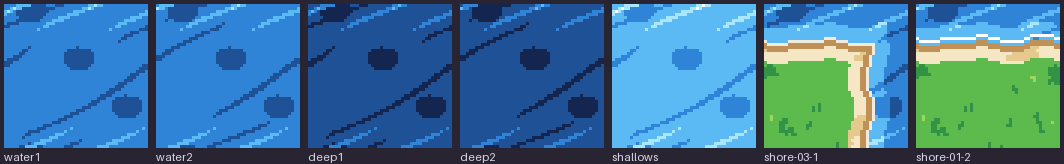
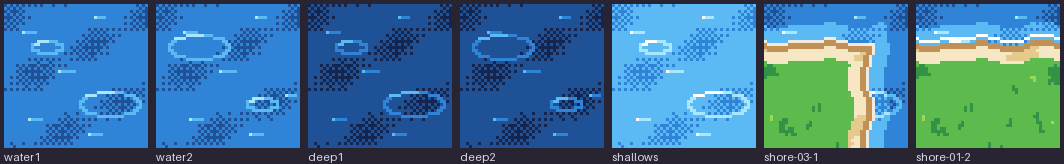
Companion 48 px round 2: the review place write-up with the signed art director's column, the handover to the new state, water and meadow figures

diff --git a/art/companion-48/review-place/README.md b/art/companion-48/review-place/README.md
@@ -1,68 +1,132 @@
 # Companion 48 px redraw: the review place
 
-The [Companion 48 px redraw](../../../design/proposals/companion-48px-redraw.md) (§9 Decided) on one place, the meadow and pond edge in a storm, with every piece it needs at 1× on the 48 ramps of the [signed palette](../palette/README.md). Everything here is **a candidate for the owner's review**: generated sources down-rendered by script, an Aseprite pass for the meadow, scripted chrome and water, Retro Diffusion candidates beside the scripted pieces, and Pip derived into the Loika token. Nothing is accepted; nothing touches `prototypes/exploration/index.html`.
+The [Companion 48 px redraw](../../../design/proposals/companion-48px-redraw.md) (§9 Decided) on one place, the meadow and pond edge in a storm, with every piece it needs at 1× on the 48 ramps of the [signed palette](../palette/README.md). Everything here is **a candidate for the owner's review**: generated sources down-rendered by script, an Aseprite pass for the meadow, scripted chrome and water, Retro Diffusion sprites beside the scripted ones where one was picked, and Pip derived into the Loika token. Nothing is accepted; nothing touches `prototypes/exploration/index.html`.
 
-**State: round 2 in progress, handed over.** Round 1 went to the owner; the owner's five notes (too dark and the rain too heavy; the grid not seamless; pawn, trees and stones dark; river borders too wavy; water flat) are being worked in round 2. What is fixed, what is half done and how every group is made is in [`../HANDOVER.md`](../HANDOVER.md). The pieces, sheets and stills below are round 2's current state; round 1's are frozen in [`round1/`](round1/). The sign-off checklist below is round 1's and is re-filled when round 2 is delivered.
+**State: round 2 ready for the owner.** It answers the owner's five notes on round 1 (below). Round 1's pieces, still and contact sheets are frozen in [`round1/`](round1/). How every group is made and how to rebuild: [`../HANDOVER.md`](../HANDOVER.md) and `sh tools/build-all.sh`.
 
 ![Contact sheet at 3×](contact-sheet-3x.png)
 
-*Every piece at 3× ([1× here](contact-sheet-1x.png)); a piece that changed in round 2 shows its round 1 version (r1) beside it (r2); the Retro Diffusion candidates are a group of their own, not yet picked. Candidates, not accepted.*
+*Every piece at 3× ([1× here](contact-sheet-1x.png)); a piece that changed since round 1 shows round 1 (r1) beside round 2 (r2). The Retro Diffusion group puts the scripted piece (a) beside the Retro Diffusion one (b). Candidates, not accepted.*
+
+## The owner's five notes, and what answers each
+
+1. **"Dark, and the rain too heavy."** The round 1 still darkened everything one ramp step. Round 2 uses no DARK step: the ground, water and plain stones go through a *storm table* (each colour mixed 30 % toward river, nearest palette colour; sand, clay, paper, bone and white kept), and the canopies and the lit stones keep their own colours (decision below). The pawn and mibis never pass through a table. The rain tile has 10 streaks per 96 px (round 1: 26). Limit: the storm now reads mild; the stronger teal cast is kept as [an alternative still](still/companion-place-storm-48-cool.png) and fails the four-grey check (below).
+2. **"The grid is not seamless."** A real Aseprite pass (1.3.18, headless on the VM, `tools/aseprite-meadow.lua`): all eight meadow tiles (grass ×4, tall ×2, flowers ×2) take one shared outer band, the master's interior offset by half a tile, blended inward and snapped to the tile's colours; grass3 and grass4 took an 18 px band (8 px left a faint horizontal structure in their own 3×3). Any meadow tile joins any other.
+3. **"Pawn, trees and stones good but dark."** Painted values lifted 18 % before quantising, nothing darkens them in the still beyond the storm cast on plain stones; Retro Diffusion sprites run through the same lift; picks below.
+4. **"River borders too wavy."** The shoreline amplitude is 0.9 + 0.5 px (was 2.2 + 1.3); a shallows band lies between bank and water; the foam line stays.
+5. **"Water flat."** Water redrawn (below), two frames.
+
+## The ground, seamless
+
+![Every meadow tile laid 3×3 at 1×](work/preview-meadow-3x3-1x.png)
+
+*Each meadow tile laid 3×3 at 1×, after the Aseprite pass (grass3, grass4 at band 18). Candidate.*
+
+![The meadow tiles laid in a seeded random 6×6 at 3×](work/meadow-mixed-3x.png)
+
+*All eight meadow tiles laid in a seeded random 6×6 ([1×](work/meadow-mixed-1x.png), `tools/meadow-check.py`): the mean colour step across a tile join is 4.8 against 13.4 inside the tiles, and no join shows at 1× or 3×. Candidate. Limit: grass2's dark bracket motif repeats visibly when it is laid several times near each other; it is the one tile to thin out at placement.*
+
+The shore set (16 masks × 2 frames) is cut again from these tiles, the shallows and the new water ([contact sheet](contact-sheet-3x.png), group 2).
+
+## Water
+
+![Water ×2, deep ×2, shallows, two shore tiles at 3×](work/preview-water-3x.png)
+
+*Round 2 water, 3×: water1, water2, deep1, deep2, shallows, two shore tiles. Scripted candidate (`tools/build-water.py`).*
+
+Judged against the guide (storms go blue; water with depth, highlights and a soft ripple over two frames): it reads as water with depth at 1× and 3×, in the still and on its own. How it is made: a periodic depth field read through a 4×4 Bayer matrix between two neighbouring ramp steps, so the colour moves softly from lighter to deeper over the tile; short crests in the lighter step with an ice glint, drifting 3 px between the frames; two flat elliptical ripple rings that widen between the frames; the deep tile one step down the ramp; the deep water drawn with a wavy edge over the water in the still, not as a tile boundary. It tiles at 48 px. The two Retro Diffusion water tiles (`sources/rd/C48-R-r2-water1`, `-water2`; on-palette after the snap but stylised: teal ring ripples, dark blue with diamonds) are kept as labelled candidates, not used. Limit: the Bayer depth shows as a fine pattern at 3×; at 1× it reads as soft depth.
 
 ## The still
 
 ![The review place in a storm, 450×600 at 1×](still/companion-place-storm-48.png)
 
-*450×600 at 1×: HUD 32, view 532, bottom line 36. Round 2: the ground and props pass through the storm table (a blue cast, no DARK step; [the no-table alternative](still/companion-place-storm-48-plain.png) is kept beside it); the pawn and the mibis never. Rain from the weather sheet over the view; the message box, the name tag, the key caps and the condition bolts from the ui sheet; the page's Mibi 7×9 font at 2×. 0 off-palette pixels by `tools/check.py`; its four-grey rendering is in [`still/four-gray/`](still/four-gray/). "Loika" is a text layer, never baked.*
+*450×600 at 1×: HUD 32, view 532, bottom line 36. The storm table on ground, water and plain stones; canopies and lit stones exempt; pawn and mibis untouched. Rain from the weather sheet; the message box, name tag, key caps and condition bolts from the ui sheet; the page's Mibi 7×9 font at 2×. 0 off-palette pixels. "Loika" is a text layer, never baked. Candidate.*
 
 ![Beside the accepted concept and the round 1 still](still/beside-concept-and-round1.png)
 
-*Left, the accepted Companion concept; middle, the round 1 still (DARK table); right, the round 2 still (storm table). The kit's own storm still is compared in [`still/beside-concept-and-kit.png`](still/beside-concept-and-kit.png) (round 1).*
+*Left, the accepted Companion concept; middle, the round 1 still (DARK table); right, the round 2 still. Candidate.*
+
+![Four-grey rendering of the still](still/four-gray/companion-place-storm-48-4gray.png)
+
+*The round 2 still in four greys (also [sheets](sheets/four-gray/)). The pawn (orange, luma 127) sits one grey below the grass body (luma 159) and separates by value as well as by outline; in round 1 both landed in one grey. The margin is one grey step, not wide.*
+
+Alternatives kept beside: [no table](still/companion-place-storm-48-plain.png) and [the stronger cool cast](still/companion-place-storm-48-cool.png) (grass body to teal, luma 129, the pawn's grey again: it fails the value check and is not the pick).
+
+### The storm light: the art director's decision
+
+- **Greens keep their ramp under the storm.** The tree's canopy went teal under the table and lost its identity; trees and bushes (tree, bush, bush-fruit, bush-shaken) are exempt and read as the lit, living thing against a cooler ground. The lit stones (warm, charged) are exempt too: their glow is the point and the table turned it grey.
+- **The ground takes a blue cast only in its shade strokes**, not its body: the grass body keeps its value because the four-grey check needs the ground lighter than the pawn, and the owner asked for lighter. This is a trade: a stronger blue ground costs the pawn's value separation. If the owner wants a darker, bluer storm, the pawn needs a lighter body or a ground shadow, which is a pawn redraw.
+- Water, plain stones, the hut and the shore go through the table.
+
+## The sprites: Retro Diffusion beside the scripted piece, and the art director's pick
+
+Each painted piece was cropped, its key-colour halo and purple ground shadow removed (alpha eroded one pixel, purple-cast pixels sent to white, so the input carries no key colour), put on white and sent as `input_image` (strength 0.5) to `rd_pro__topdown` with the 48-colour `input_palette` and `remove_bg`; the result is lifted 18 %, quantised onto the piece's ramps, despeckled and outlined by the ramp rule (`tools/rd-snap.py`). HiBit on the 48 ramps, ramp outline never black, no alpha, no anti-aliasing, 0 off-palette after the snap.
+
+| Piece | Pick | Reason |
+| --- | --- | --- |
+| tree | scripted | Retro Diffusion draws a crisper canopy but loses the trunk to a stub and the ground shadow, so the tree stops reading as a tree. |
+| bush | scripted | Retro Diffusion's is darker with a grey patch artefact at its top right; the scripted bush is lighter and rounder. |
+| bush-fruit | scripted | Retro Diffusion's berries mix with purple specks; the scripted red berries read at once. |
+| stone | **Retro Diffusion** | Facets and a lit top give the stone volume; the scripted stone is a smooth slab with a skirt. Smaller than the scripted one (26×31). |
+| stone-warm1 | **Retro Diffusion** | The amber glow sits in the stone's core as a warm stone should; the scripted one is a grey slab with a warm rim, round 1's failure. |
+| stone-charged1 | scripted | Retro Diffusion keeps the stone and loses the charge to faint white cracks; the scripted crackle still says charged. |
+| outpost-lit | scripted | Retro Diffusion's hut is dark brown with a teal halo and a tiny lamp; the owner asked for lighter. |
+| pod | scripted | Retro Diffusion turned the dark pod into a cream egg: a different object. |
+| pawn (down, up, left, right) | scripted | Retro Diffusion drew a different character (a hooded person, a lantern, one with a stone tile behind it) and only the walk2 frame per facing; no cycle could be built, and the scripted pawn is the accepted individual. |
+
+The picks are in [`work/props/`](work/props/) and the sheets; the scripted versions of the two replaced pieces are in [`work/props-scripted/`](work/props-scripted/); every Retro Diffusion result, snapped, in [`work/props-rd/`](work/props-rd/) and [`work/pawn-rd/`](work/pawn-rd/); raw results, inputs and sidecars in [`sources/rd-sprites/`](sources/rd-sprites/). Limit: the stone family is now mixed (two Retro Diffusion pieces, four scripted: stone-plain2, stone-warm2, stone-charged2 and the stepping stones were not re-run); in the still they sit apart, and a third batch on the same recipe would unify them.
 
 ## What is generated, scripted, derived
 
-| Group | How it was made | Stage |
-| --- | --- | --- |
-| Ground (grass ×4, tall ×2, flowers ×2, shade, sand, water ×2, deep, reeds, wet shore, stepping stone) | One Pro-painted 4×4 grid ([`sources/C48-T-r1-a1`](sources/C48-T-r1-a1.json)) cut, wrap-blended, level-matched across the meadow set, BOX-resized to 48 and quantised onto each tile's ramps (`tools/build-ground.py`) | generated source, scripted down-render |
-| Shore corner set (16 masks × 2 frames) | Cut by script from the grass, sand and water tiles along a wavy shoreline that repeats every 48 px; a foam line of bone (frame 1) or white (frame 2) (`tools/build-shore.py`) | scripted |
-| Props: tree, bush ×3, stone, warm stone ×2, charged stone ×2, outpost ×3, pod, reeds, dew cup | One Pro-painted sheet on magenta ([`sources/C48-P-r1-a1`](sources/C48-P-r1-a1.json)) keyed, resized to each piece's size, quantised onto its ramps, outlined by the rule (`tools/build-props.py`) | generated source, scripted down-render |
-| Warned strike ×2 | A dashed yellow ring with a rust rim, two dash phases (`tools/build-ui.py`) | scripted |
-| Pawn: 4 facings × walk 3, creep 3, react | One Pro-painted 8×4 sheet ([`sources/C48-W-r1-a1`](sources/C48-W-r1-a1.json)) down-rendered to 40 px tall in 48 px cells, foot at y 46; the up facing derived from down (`tools/build-pawn.py`) | generated source, scripted down-render |
-| Tokens: Pip as Loika (idle 2, walk 3); placeholders S02–S04 | Derived from the accepted Pip painting (`art/miniature-lives/assets/hibit-plain-280x300.png`): 40 px tall, quantised, outlined; the frames by 1 px shifts of the legs and body (`tools/build-tokens.py`); placeholders as grey stones with the code in the page font | derived, scripted |
-| Weather: rain tile 96×96, 2 leans × 2 frames | The page's 4×11 streak (white, ice, mist) laid 26 times by a hash so the tile wraps; frame 2 is frame 1 fallen half a tile (`tools/build-weather.py`). Two Retro Diffusion `rd_pro__topdown` stages with the palette as `input_palette` were made and rejected: [a1](sources/rd/C48-R-r1-a1-rd.png) painted a side-view sky with lightning on an opaque ground; [a2](sources/rd/C48-R-r1-a2-rd.png) with `remove_bg` gave usable streak forms in teal and lilac, not seamless, with an edge artefact | scripted; generated stages kept and labelled |
-| HUD icons (Energy, Data, Essence, Shield, Shield gone, Pod, free slot, World turn, Call, Storm ×2, hollow bolt, Fog bank, Pin, Battery, Radio, bond, crate), key caps ✓ ← Call, condition bolts ◀ ▶ ×2, 9-slices (message box, danger, name tag, paper) | Drawn by script on the ramps at 16 px (caps 24 tall with the glyph at 2×), from the page's own icon forms (`tools/build-ui.py`) | scripted |
+| Group | Source | Script | Stage |
+| --- | --- | --- | --- |
+| Ground: grass ×4, tall ×2, flowers ×2, shade, sand, wet shore | One Pro-painted 4×4 grid ([`sources/C48-T-r1-a1`](sources/C48-T-r1-a1.json)): cut by the magenta margins, 10 % trim, wrap-blend, level-match across the meadow set, BOX to 48, quantise per ramps, despeckle (`tools/build-ground.py`); then the Aseprite pass on the VM for the eight meadow tiles | generated source, scripted down-render, Aseprite pass |
+| Water ×2, deep ×2, shallows | Scripted (`tools/build-water.py`) | scripted |
+| Shore corner set 16 masks × 2 frames | Cut from grass1, sand, shallows and water along a wavy shoreline; bone foam (frame 1), white (frame 2) (`tools/build-shore.py`) | scripted |
+| Props | One Pro-painted sheet on magenta ([`sources/C48-P-r1-a1`](sources/C48-P-r1-a1.json)): key, fit, lift 1.18, quantise per ramps, despeckle, outline (`tools/build-props.py`); stone and stone-warm1 from Retro Diffusion (`tools/rd-sprites.py`, `rd-snap.py`) | generated source, scripted down-render; two Retro Diffusion picks |
+| Warned strike ×2, HUD icons, key caps, condition bolts, 9-slices | Drawn by script on the ramps from the page's own icon forms (`tools/build-ui.py`) | scripted |
+| Pawn: 4 facings × walk 3, creep 3, react | One Pro-painted 8×4 sheet ([`sources/C48-W-r1-a1`](sources/C48-W-r1-a1.json)) to 40 px tall, lifted, foot at y 46; up derived from down (`tools/build-pawn.py`) | generated source, scripted down-render |
+| Tokens: Pip as Loika (idle 2, walk 3); placeholders S02–S04 | The accepted Pip painting, quantised and outlined (`tools/build-tokens.py`) | derived, scripted |
+| Weather: rain tile 96×96, 2 leans × 2 frames | Scripted, 10 streaks per tile (`tools/build-weather.py`); Retro Diffusion stages rejected and kept in `sources/rd/` | scripted |
 
-Sheets: six indexed PNGs (indices 0–47 as signed, 48 transparent) with JSON atlases in [`sheets/`](sheets/): frame rects, anchor (foot for sprites, top-left for tiles and chrome). Working pieces, one PNG each, in [`work/`](work/). Sources, prompts and sidecars in [`sources/`](sources/); the spend in [`sources/budget.json`](sources/budget.json).
+Sheets: six indexed PNGs (indices 0–47 as signed, 48 transparent) with JSON atlases in [`sheets/`](sheets/); anchor = foot for sprites, top-left for tiles and chrome. Working pieces, one PNG each, in [`work/`](work/).
 
 ## Checks
 
-- `tools/check.py` on the six sheets and the still: **0 off-palette, 0 semi-transparent pixels** on every one.
-- Four-grey renderings of every sheet in [`sheets/four-gray/`](sheets/four-gray/) and of the still in [`still/four-gray/`](still/four-gray/). Fail noted below: under the storm's DARK table the pawn's orange body lands in the same grey as the darkened grass; only its outline separates it.
+- `tools/check.py` on the six sheets, the still and its two alternatives: **0 off-palette, 0 semi-transparent pixels** on every one.
+- Four-grey renderings: [`sheets/four-gray/`](sheets/four-gray/) and [`still/four-gray/`](still/four-gray/).
+- Meadow joins: the 3×3 figure and the mixed 6×6 above.
 
-## Sign-off checklist, §2 Painted master, art director's column (round 1; to be re-filled for round 2)
+## Sign-off checklist, §2 Painted master, art director's column (round 2)
 
 From [`design/style-guide/sign-off.md`](../../../design/style-guide/sign-off.md) §2. Yes/no per line; failures listed, not hidden. The capabilities column is the builder's and is not signed here.
 
 | Art direction | |
 | --- | --- |
-| From the accepted candidate, owner's notes applied (SS Decided) | **Yes**, with a limit: the forms, colours and light are taken from the accepted Companion concept (`companion-storm.png`) through the painted sources; the redraw's two choices (§9) are followed. No owner notes exist yet on 48 px pieces; this is the first round. |
+| From the accepted candidate, owner's notes applied (SS Decided) | **Yes**, with limits. The five notes are answered above; the forms, colours and light come from the accepted Companion concept through the painted sources. Limit: the storm reads mild against the concept's dark teal; the stronger cast is an alternative, not the pick. |
 | Station: painted light, soft shadows, no dither bands or flat fills (SG) | n/a: Companion pieces. |
-| Companion: hand-pixelled on the 48 ramps, ramp outline never black, no alpha, Bayer only (SG; UK §2) | **Partial.** On the 48 ramps, outlines by the ramp rule (never void; the N ramp's edge is ink), no alpha, no AA. **Not hand-pixelled:** the terrain, props, pawn and tokens are scripted down-renders of painted sources, with despeckling; the Aseprite clean-up pass the proposal names has not happened (Aseprite is not on this VM). Fails to list: faint tile seams remain across the meadow set; `stone-warm` reads as a grey slab with a warm top rather than a warm stone; `dew-cup` is too small to read at 1×; the pawn's creep frames differ from the walk by little. |
-| Creature at its area, 300×310+ Station, 280×300 Companion, same trait boundaries (SG Creatures) | **Yes** for the one creature present: Loika is the placed Pip, derived from the accepted 280×300 painting, same individual, never regenerated; S02–S04 are labelled placeholders. |
-| Same individual in four-gray and on paper; nothing childish (AD) | **Partial.** Four-grey renderings made for every sheet and the still; Pip's token still reads as Pip in four greys; **the pawn under the DARK table does not separate from the ground in four greys** (outline only). Nothing childish: the sources are painted in the concept's finish; the placeholders are plain grey stones with a code, no faces. |
+| Companion: hand-pixelled on the 48 ramps, ramp outline never black, no alpha, Bayer only (SG; UK §2) | **Partial.** On the 48 ramps, outlines by the ramp rule, no alpha, no AA, Bayer only (water depth). **Not hand-pixelled:** the terrain, props, pawn and tokens are scripted down-renders of painted or Retro Diffusion sources with despeckling; the meadow had a real Aseprite pass, nothing else did. Failures: grass2's bracket motif repeats visibly in a run of the same tile; `stone-warm2`, `stone-plain2` and the stepping stones are scripted slabs beside two Retro Diffusion stones; `dew-cup` is too small to read at 1×; the pawn's creep frames differ from the walk by little. |
+| Creature at its area, 300×310+ Station, 280×300 Companion, same trait boundaries (SG Creatures) | **Yes** for the one creature present: Loika is the placed Pip, derived from the accepted 280×300 painting, same individual; S02–S04 are labelled placeholders. |
+| Same individual in four-gray and on paper; nothing childish (AD) | **Partial.** Four-grey renderings made for every sheet and the still; Pip's token reads as Pip. The round 1 value fail is **reduced, not gone**: the pawn now sits one grey below the grass body, a one-step margin; the stronger blue ground would bring the fail back. Not tested on paper (no paper render exists for the Companion). Nothing childish: painted-source finish; placeholders are plain grey stones with a code. |
 
-Signed, art director, 2026-10-08. Failures: the three listed above (not hand-cleaned; tile seams, the warm stone, the dew cup, the creep frames; the pawn's four-grey value under the storm).
+Signed, art director, 2026-10-08. Failures: the three listed in line three (hand-clean; grass2 repeat; mixed stone family; dew cup; creep frames) and the pawn's one-step four-grey margin.
 
 ## Spend
 
 | Call | Tool | USD |
 | --- | --- | --- |
 | C48-T-r1-a1 ground grid, C48-P-r1-a1 props, C48-W-r1-a1 pawn | Pro, 1K each | 0.53 |
-| C48-R-r1-a1, C48-R-r1-a2 rain | Retro Diffusion rd_pro__topdown 96×96 | 0.36 |
-| **Total** | | **0.89** |
+| C48-R-r1-a1, a2 rain | Retro Diffusion rd_pro__topdown 96×96 | 0.36 |
+| C48-R-r2-water1, water2 | Retro Diffusion rd_pro__topdown 48×48 | 0.36 |
+| C48-S-r2 first sprite batch, 12 calls (superseded: magenta fringe on the inputs) | Retro Diffusion rd_pro__topdown | 2.16 |
+| C48-S-r2 second sprite batch, 12 calls | Retro Diffusion rd_pro__topdown | 2.16 |
+| **Total** | | **5.57** |
+
+Re-summed from the sidecars by `tools/budget.py` into [`sources/budget.json`](sources/budget.json) (the superseded batch in [`sources/extra-spend.json`](sources/extra-spend.json)). Retro Diffusion balance left: $2.04.
 
 ## Limits and what the next round needs
 
-- The down-render is the scripted stand-in for the Aseprite pass; the next round cleans the pieces by hand where the script leaves noise (tile seams, the warm stone, the dew cup, the creep cycle) and takes the owner's notes.
-- The shore set is cardinal masks only (no diagonal corners); the island, canopy shade and the second water frame's shore are cut from the same rule and would follow.
-- The rain tile is scripted; Retro Diffusion gave streak forms but not a palette-true seamless tile in two tries, so the scripted tile stands and the stages are kept labelled.
+- Only the meadow had a real Aseprite pass; hand-cleaning the rest (props, pawn, tokens) is the remaining step to "hand-pixelled".
+- The shore set is cardinal masks only (no diagonals); the island, canopy shade and a shore for the second water frame would follow.
+- The pawn has no ground shadow in the still; one under the pawn would add value separation.
 - The map pawn, the reach variant, bubbles, settle pips, the partner ring, signs, map props, cloud and rim pieces are not in this round (the brief stops at the review place).

diff --git a/art/companion-48/HANDOVER.md b/art/companion-48/HANDOVER.md
@@ -1,68 +1,56 @@
 # Companion 48 px redraw: handover
 
-State of the work on 2026-10-08, written for the studio session that takes round 2 over. Everything below is in this folder; nothing in `prototypes/exploration/index.html` has been touched. Run every script with `python3 -I` from `art/companion-48/`.
+State of round 2 on 2026-10-08. Everything below is in this folder; nothing in `prototypes/exploration/index.html` has been touched. Run every script with `python3 -I` from `art/companion-48/`.
 
 ## Where things are
 
-- `palette/`: the 48 colours (identical to the Companion page's `PALETTE`), the shade (DARK/LIGHT), dither and mix tables, signed. `tools/pal.py` loads it and adds the ramps and, since round 2, a **storm table** (`P.storm`: every colour mixed 30 % toward river, nearest palette colour; sand, clay, paper, bone and white kept; a blue cast without a DARK step).
-- `review-place/`: the one place of round 1 and 2 (meadow and pond edge in a storm). `work/` holds every piece as one PNG; `sheets/` the six indexed sheets with JSON atlases (indices 0–47, 48 transparent; anchor = foot for sprites, top-left for tiles and chrome); `still/` the composed 450×600 stills and the comparison figures; `sources/` the paid sources with sidecars and `budget.json`; `round1/` a frozen copy of round 1's pieces, still and contact sheets for the side-by-side; `contact-sheet-1x.png` and `-3x.png`.
-- `review-place/README.md`: the round's write-up with the filled sign-off checklist (§2 Painted master, art director's column). Update it in place: what is true now, no history.
+- `palette/`: the 48 colours (identical to the Companion page's `PALETTE`), the shade (DARK/LIGHT), dither and mix tables, signed. `tools/pal.py` loads it and adds the ramps and the two storm tables: `P.storm` (every colour mixed 30 % toward river, nearest palette colour; sand, clay, paper, bone, white kept; the pick) and `P.cool` (45 %, the stronger cast, an alternative).
+- `review-place/`: the one place. `work/` holds every piece as one PNG (`props-scripted/` the scripted stone and stone-warm1 that Retro Diffusion replaced; `props-rd/`, `pawn-rd/` every snapped Retro Diffusion result; `candidates/` the pairs for the contact sheet); `sheets/` the six indexed sheets with JSON atlases (indices 0–47, 48 transparent); `still/` the composed 450×600 stills and the comparison figures; `sources/` the paid sources with sidecars, `budget.json` and `extra-spend.json`; `round1/` a frozen copy of round 1.
+- `review-place/README.md`: the write-up with the §2 art director's column signed. Update in place: what is true now, no history.
 
-## The owner's five notes on round 1, and where each stands
+## Rebuild everything
 
-1. **Too dark, rain too heavy.** Addressed in the still: the ground and props go through the storm table instead of DARK (`compose-still.py --light storm`, the candidate; `--light plain` is the no-table alternative kept beside it; `--light dark` reproduces round 1). The rain tile has 10 streaks per 96 px instead of 26 (`build-weather.py`). Pawn and mibis never pass through a table. Open: the tree's canopy goes teal under the storm table; the art director should decide whether the G ramp keeps its greens (override in `pal.py` like sand) or the blue cast stands.
-2. **The grid is not seamless.** Addressed for the meadow set by a real Aseprite pass on the VM (`tools/aseprite-meadow.lua`, see below): every meadow tile (grass ×4, tall ×2, flowers ×2) takes the same outer band, the master tile's interior offset by half a tile, blended over 8 px and snapped to the tile's colours, so any meadow tile joins any other; each tile is laid 3×3 for the check (`work/meadow-aseprite/*-3x3.png`, `work/preview-meadow-aseprite-2x.png`). The Aseprite output replaced the tiles in `work/ground/`. Open: grass3 and grass4 still show a faint horizontal structure in their own 3×3; a wider band (10) or a second master for them is the next try. The Retro Diffusion Wang tileset (trial C4) was not tried: that style stops at 32 px and ignored the palette in the trial, so it does not meet the 48 px rule.
-3. **Pawn, trees, stones dark.** Partly addressed: the painted values are lifted 18 % before quantising (`LIFT` in `build-props.py` and `build-pawn.py`) and nothing in the still darkens them beyond the storm cast. The Retro Diffusion candidates (below) are the other half; not yet picked per piece.
-4. **River borders too wavy.** Addressed: the shoreline's amplitude in `build-shore.py` is 0.9 + 0.5 px (was 2.2 + 1.3); the foam line stays; a shallows band (sky over river) now lies between the bank and the water.
-5. **Water flat.** Addressed with a scripted candidate, not yet judged by the owner: `build-water.py` draws water1/water2 (river base, short sky crest dashes with ice glints, sparse sea trough lines, a rare pool of sea, drifting between the frames), deep1/deep2 one step down the ramp, and shallows. The still draws the deep water with a wavy edge over the water tiles (in `compose-still.py`), not as a tile boundary. The painted water, deep, reeds and stepping-stone tiles of round 1 are kept only in `round1/work/ground/`; the stepping stone and the reeds are now props placed over water. Two Retro Diffusion water tiles (`sources/rd/C48-R-r2-water1`, `-water2`) came back on-palette but stylised (ring ripples in teal; dark blue with diamonds); kept as labelled candidates, not used.
-
-## Retro Diffusion sprite candidates (half done)
-
-`tools/rd-sprites.py` crops each painted prop (and the pawn's walk2 in four facings) from the Pro sources, puts it on white, and sends it as `input_image` (strength 0.5) to `rd_pro__topdown` with the 48-colour `input_palette` and `remove_bg`, at the piece's own size, one call per piece, $0.18 each. Twelve calls were started (tree, bush, bush-fruit, stone, stone-warm1, stone-charged1, outpost-lit, pod, pawn down/up/left/right); results land in `sources/rd-sprites/C48-S-r2-*-rd.png` with sidecars, inputs in `sources/rd-sprites/inputs/`. `tools/rd-snap.py SRC_DIR OUT_PROPS OUT_PAWN` quantises each result onto the piece's ramps, despeckles, applies the outline rule and places it (pawn at foot y 46 in 48×48) into `work/props-rd/` and `work/pawn-rd/`. **Not done:** the art director's pick per piece (the brief asks for the RD candidate beside the scripted down-render on the contact sheet, the pick going into the sheets), and the handling of the inputs' magenta fringe (the keyed shadow leaves a purple halo on the white input; clean the input's alpha edge or key tighter before the next batch). What the first results show: RD keeps the form, draws crisp leaf and stone texture, and comes back darker and cooler than the painting with a purple ground shadow; the bush is the strongest, the tree the darkest.
-
-What worked and what did not with Retro Diffusion in this folder: `rd_pro__topdown` with `input_palette` returns on-palette pixels (0 off-palette after the snap) for tiles and img2img sprites; a text-only rain prompt gives a side-view scene (rejected), and with `remove_bg` gives streaks in the wrong colours (rejected); the service's `seam_tiling` edit tool has no `check_cost` (the field is refused) and was not run; `rd_tile__tileset` does not reach 48 px. Every call goes through `tools/rd-gen.py` (dry run with `check_cost` first; `--run` to pay; `--input IMG --strength S` for img2img; `--ref IMG` for an RD Pro reference; `--remove-bg`; `--seed N`), which writes the raw PNG and a sidecar without key material. The key is `RETRO_DIFFUSION_API_KEY` in the environment; never print or store it.
+`sh tools/build-all.sh`: the candidates group, the six `pack.py` calls, the contact sheets at 1× and 3× (round 1 beside round 2 where a piece changed), the stills (`--light storm|cool|plain`), `beside.py`, the mixed meadow laydown, the water preview, `check.py` with the four-grey renderings. A piece is changed by editing its PNG in `work/` or re-running its builder first (below).
 
 ## Pipeline per group
 
 | Group | Source | Script | Notes |
 | --- | --- | --- | --- |
-| Ground: grass ×4, tall ×2, flowers ×2, shade, sand, wet shore | Pro-painted 4×4 grid `sources/C48-T-r1-a1` | `build-ground.py SRC work/ground` (cut by magenta margins, 10 % trim, wrap-blend, level-match across the meadow set, BOX to 48, quantise per ramps, despeckle) then `aseprite-meadow.lua` on the VM for the meadow set | the Aseprite output overwrote `work/ground/` for the eight meadow tiles |
-| Water ×2, deep ×2, shallows | scripted | `build-water.py work/ground` | round 2 candidate |
-| Shore corner set 16 × 2 | cut from grass1, sand, shallows, water | `build-shore.py work/ground work/shore` | mask bits N=1 E=2 S=4 W=8, water on that side |
-| Props | Pro-painted sheet on magenta `sources/C48-P-r1-a1` | `build-props.py SRC work/props` (key, fit, LIFT 1.18, quantise per ramps, despeckle, outline) | RD candidates beside, above |
-| Warned strike ×2, HUD icons, key caps, condition bolts, 9-slices | scripted | `build-ui.py work/ui work/props` | from the page's icon forms |
-| Pawn 4 facings × walk 3, creep 3, react | Pro-painted 8×4 sheet `sources/C48-W-r1-a1` | `build-pawn.py SRC work/pawn` (hue key, projection cells, fit 40 tall, LIFT, quantise OWNY, outline, foot y 46; up derived from down) | RD candidates for walk2 beside, above |
-| Tokens: Pip as Loika idle 2, walk 3; placeholders S02–S04 | the accepted Pip painting `art/miniature-lives/assets/hibit-plain-280x300.png` | `build-tokens.py` | Loika is Pip wherever it appears |
-| Rain tile 96, 2 leans × 2 frames | scripted | `build-weather.py work/weather` | RD stages rejected, kept in `sources/rd/` |
-| Sheets and atlases | the pieces | `pack.py NAME tile\|sprite\|chrome sheets PIECES...` (see the six calls in the README) | |
-| Contact sheets | the pieces | `contact.py OUT SCALE "Group=work/dir=round1/work/dir" ...` (a changed piece shows r1 beside r2) | |
-| The still | the pieces | `compose-still.py work OUT.png --light storm` then `beside.py OUT still LABEL [PREV LABEL]` | |
+| Ground: grass ×4, tall ×2, flowers ×2, shade, sand, wet shore | Pro-painted 4×4 grid `sources/C48-T-r1-a1` | `build-ground.py SRC work/ground`, then `aseprite-meadow.lua` on the VM for the eight meadow tiles | grass3 and grass4 at band 18, the others at 8; the Aseprite output overwrote `work/ground/` for those tiles |
+| Water ×2, deep ×2, shallows | scripted | `build-water.py work/ground` | Bayer depth, crests, two ripple rings |
+| Shore set 16 × 2 | cut from grass1, sand, shallows, water | `build-shore.py work/ground work/shore` | mask bits N=1 E=2 S=4 W=8, water on that side; rerun after any ground or water change |
+| Props | Pro-painted sheet `sources/C48-P-r1-a1` | `build-props.py SRC work/props` (LIFT 1.18) | stone and stone-warm1 in `work/props/` are the Retro Diffusion picks |
+| Retro Diffusion sprites | painted crops | `rd-sprites.py PROPS_SRC PAWN_SRC OUT [--run]` then `rd-snap.py OUT work/props-rd work/pawn-rd` | inputs cleaned of the key halo and purple shadow; $0.18 a call; dry run without `--run` |
+| Warned strike, HUD icons, caps, bolts, 9-slices | scripted | `build-ui.py work/ui work/props` | |
+| Pawn | Pro-painted sheet `sources/C48-W-r1-a1` | `build-pawn.py SRC work/pawn` | scripted pawn picked; Retro Diffusion walk2 only, off-model |
+| Tokens | the accepted Pip painting | `build-tokens.py` | |
+| Rain tile | scripted | `build-weather.py work/weather` | 10 streaks |
+| Still | the pieces | `compose-still.py work OUT --light storm` (canopies and lit stones exempt from the table) then `beside.py` | |
+| Meadow joins | the meadow tiles | `meadow-check.py work/ground OUT_PREFIX` | |
 
-## Checks, and how to run them
+## Retro Diffusion notes
 
-- `python3 -I tools/check.py review-place/sheets/*.png review-place/still/*.png --fourgray DIR`: 0 off-palette and 0 semi-transparent pixels on every sheet and still (exit 1 otherwise), with a four-grey rendering of each for the value check. The value fail of round 1 (the pawn's orange and the darkened grass landing in one grey) should be re-read on the round 2 still.
-- Tiling check: `work/meadow-aseprite/*-3x3.png` at 1× and `work/preview-meadow-aseprite-2x.png`.
-- `python3 -I tools/preview.py OUT SCALE PIECES...` for a quick labelled grid of any pieces.
+`rd_pro__topdown` with `input_palette` returns on-palette pixels for img2img sprites and tiles; every call goes through `tools/rd-gen.py` (dry run with `check_cost` first; `--run` to pay; `--input IMG --strength S`; `--ref IMG`; `--remove-bg`; `--seed N`), which writes the raw PNG and a sidecar without key material. The key is `RETRO_DIFFUSION_API_KEY` in the environment; never print or store it. A text-only rain prompt gives a side view; `seam_tiling` has no `check_cost`; `rd_tile__tileset` does not reach 48 px. The service drifts off-model on characters (the pawn) and on objects with a distinctive form (the pod became an egg): the pawn needs a lower strength and a prompt that names no props, one facing at a time, if tried again.
 
 ## The VM and Aseprite
 
-Aseprite 1.3.18 runs headless on the operations VM, not in the session container. The wrapper `mb-vm` runs one command there over SSH; files go over with the same wrapper:
+Aseprite 1.3.18 runs headless on the operations VM. The wrapper `mb-vm` runs one command there over SSH; files go over with the same wrapper:
 
 ```
-tar -C review-place/work/ground -cf - grass1.png grass2.png | mb-vm 'mkdir -p ~/c48/in ~/c48/out && tar -C ~/c48/in -xf -'
+tar -C review-place/work/ground -cf - grass1.png grass3.png | mb-vm 'mkdir -p ~/c48/in && tar -C ~/c48/in -xf -'
 mb-vm 'cat > ~/c48/aseprite-meadow.lua' < tools/aseprite-meadow.lua
-mb-vm 'cd ~/c48 && aseprite -b --script-param master=grass1 --script-param tiles=grass1,grass2 --script-param band=8 --script-param indir=in --script-param outdir=out --script aseprite-meadow.lua'
-mb-vm 'cd ~/c48/out && tar -cf - *.png' > out.tar && tar -C work/meadow-aseprite -xf out.tar
+mb-vm 'cd ~/c48 && mkdir -p out && aseprite -b --script-param master=grass1 --script-param tiles=grass3,grass4 --script-param band=18 --script-param indir=in --script-param outdir=out --script aseprite-meadow.lua'
+mb-vm 'cd ~/c48/out && tar -cf - *.png' > out.tar && tar -C review-place/work/meadow-aseprite -xf out.tar
 ```
 
-Keep the script's own output and the tar stream in separate calls (a `tail` on the same command corrupts the archive). Script parameters arrive in Lua as `app.params`. PNGs round-trip as RGBA with the exact palette colours; the snap to the palette is done inside the script (nearest of the colours the tile and the master already use, weighted 3/4/2).
+Keep the script's own output and the tar stream in separate calls. Script parameters arrive in Lua as `app.params`.
 
-## Spend so far
+## Spend
 
-`review-place/sources/budget.json` (`python3 -I tools/budget.py review-place/sources` re-sums every sidecar). Round 1: three Pro 1K sources $0.53 and two Retro Diffusion rain stages $0.36. Round 2: two Retro Diffusion water tiles $0.36 and the sprite batch at $0.18 per returned image (twelve started). Retro Diffusion balance before the sprite batch: $6.36.
+`python3 -I tools/budget.py review-place/sources` re-sums every sidecar and `extra-spend.json` into `budget.json`: $5.57 in total, of which round 2 is $4.68 (two water tiles, two sprite batches of twelve). Retro Diffusion balance left: $2.04.
 
-## What is left for round 2
+## What is open
 
-1. Collect the sprite batch, run `rd-snap.py`, pick per piece, put the picks in `work/props/` and `work/pawn/` (keep the scripted versions in `round1/`), add the candidates group to the contact sheets.
-2. Decide the tree's colour under the storm table; re-read the four-grey still.
-3. Repack, contact sheets at 1× and 3× with round 1 beside, the still beside the concept and the round 1 still, checks, the README in place with the §2 checklist filled and failures listed, the budget; small commits on main; report to the programme lead with the pipeline table above, never to the owner.
+- The owner's verdict on the storm (the pick against the cool alternative), the water, and the Retro Diffusion stones.
+- Hand-cleaning of props, pawn and tokens (only the meadow had an Aseprite pass).
+- The stone family is mixed (two Retro Diffusion, four scripted).
